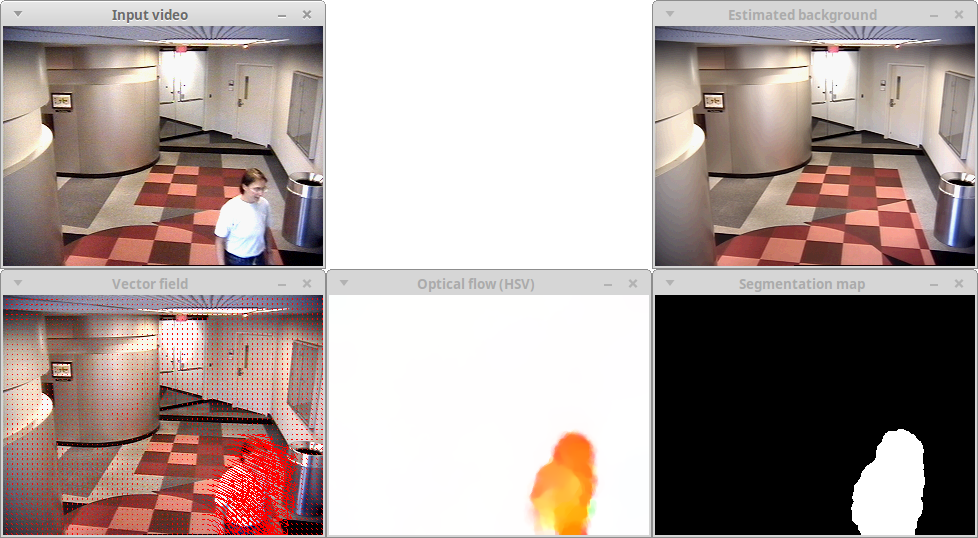
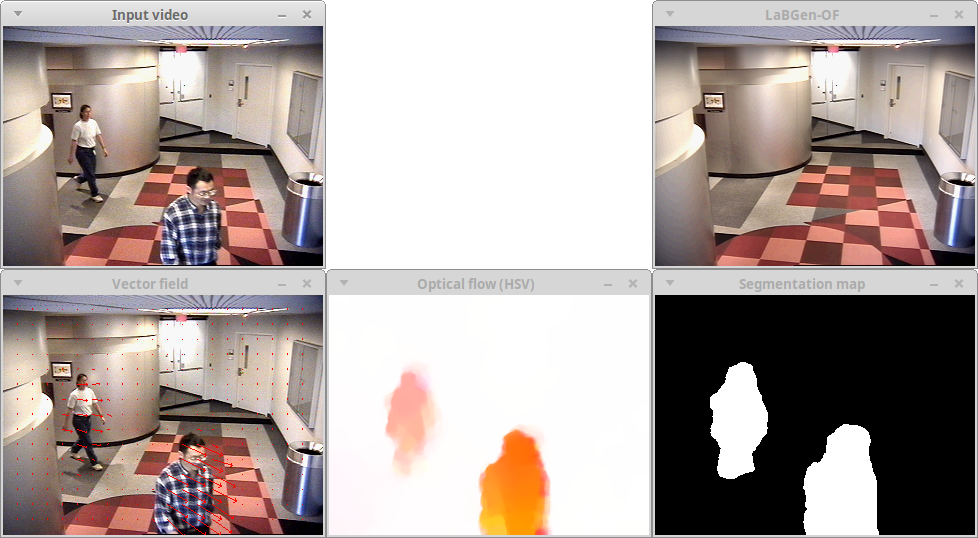
README updated, segmentation fault corrected when split vis is enabled, updated Travis CI to handle OpenCV 3.3

diff --git a/main/LaBGen-OF-cli.cpp b/main/LaBGen-OF-cli.cpp
@@ -120,49 +120,48 @@ int main(int argc, char** argv) {
   unique_ptr<GridWindow> window;
   unique_ptr<VideoWriter> record_stream;
 
-  if (
-    (args_h.get_visualization() && !args_h.get_split_vis()) ||
-     args_h.get_record()
-   ) {
+  if (args_h.get_visualization() || args_h.get_record()) {
     arrows_image     = unique_ptr<Mat>(new Mat(height, width, CV_8UC3));
     optical_flow_hsv = unique_ptr<Mat>(new Mat(height, width, CV_8UC3));
 
-    TextProperties::TextPropertiesPtr title_properties = nullptr;
+    if (!args_h.get_split_vis()) {
+      TextProperties::TextPropertiesPtr title_properties = nullptr;
 
-    if (args_h.get_record()) {
-      title_properties = make_shared<TextProperties>(
-        TextProperties::Font::FONT_DUPLEX,
-        0.8
-      );
-    }
-    else
-      title_properties = make_shared<TextProperties>();
+      if (args_h.get_record()) {
+        title_properties = make_shared<TextProperties>(
+          TextProperties::Font::FONT_DUPLEX,
+          0.8
+        );
+      }
+      else
+        title_properties = make_shared<TextProperties>();
 
-    window = unique_ptr<GridWindow>(
-      new GridWindow(
-        "LaBGen-OF",
-        (args_h.get_v_height() > 0) ? args_h.get_v_height() : height,
-        (args_h.get_v_width() > 0) ? args_h.get_v_width() : width,
-        2,
-        3,
-        title_properties
-      )
-    );
-
-    if (args_h.get_keep_ratio())
-      window->keep_ratio();
-
-    if (args_h.get_record()) {
-      const Mat& buffer = window->get_buffer();
-
-      record_stream = unique_ptr<VideoWriter>(
-        new VideoWriter(
-          args_h.get_record_path(),
-          CV_FOURCC('M','J','P','G'),
-          args_h.get_record_fps(),
-          Size(buffer.cols, buffer.rows)
+      window = unique_ptr<GridWindow>(
+        new GridWindow(
+          "LaBGen-OF",
+          (args_h.get_v_height() > 0) ? args_h.get_v_height() : height,
+          (args_h.get_v_width() > 0) ? args_h.get_v_width() : width,
+          2,
+          3,
+          title_properties
         )
       );
+
+      if (args_h.get_keep_ratio())
+        window->keep_ratio();
+
+      if (args_h.get_record()) {
+        const Mat& buffer = window->get_buffer();
+
+        record_stream = unique_ptr<VideoWriter>(
+          new VideoWriter(
+            args_h.get_record_path(),
+            CV_FOURCC('M','J','P','G'),
+            args_h.get_record_fps(),
+            Size(buffer.cols, buffer.rows)
+          )
+        );
+      }
     }
   }
 
@@ -191,9 +190,10 @@ int main(int argc, char** argv) {
   cout << endl << "Processing..." << endl;
   bool first_frame = true;
 
-  FramesVec::const_iterator begin = frames.begin();
-  FramesVec::const_iterator it    = begin + 1;
-  FramesVec::const_iterator end   = frames.end();
+  FramesVec::const_iterator begin   = frames.begin();
+  FramesVec::const_iterator it      = begin + 1;
+  FramesVec::const_iterator prev_it = begin;
+  FramesVec::const_iterator end     = frames.end();
 
   for (
     int32_t pass = 0, passes = (args_h.get_p_param() + 1) / 2;
@@ -211,7 +211,7 @@ int main(int argc, char** argv) {
       /* Visualization. */
       if (args_h.get_visualization() || args_h.get_record()) {
         OpticalFlow::get_arrows_image(
-          *it,
+          *prev_it,
           labgen_of.get_vector_field(),
           *arrows_image
         );
@@ -257,6 +257,7 @@ int main(int argc, char** argv) {
       }
 
       /* Move iterator. */
+      prev_it = it;
       it = (forward) ? ++it : --it;
 
       /* If iterator is at the end. */

diff --git a/src/optical_flow/OpticalFlow.cpp b/src/optical_flow/OpticalFlow.cpp
@@ -171,8 +171,8 @@ void OpticalFlow::get_arrows_image(
 
   float* optical_flow_buffer = reinterpret_cast<float*>(optical_flow.data);
 
-  for (int row = step_px - 1; row < height; row += step_px) {
-    for (int col = step_px - 1; col < width; col += step_px) {
+  for (int row = step_px - 1; row <= height - step_px; row += step_px) {
+    for (int col = step_px - 1; col <= width - step_px; col += step_px) {
       arrowedLine(
         arrows_image,
         Point(col, row),

diff --git a/include/labgen-of/optical_flow/OpticalFlow.hpp b/include/labgen-of/optical_flow/OpticalFlow.hpp
@@ -78,8 +78,8 @@ namespace ns_labgen_of {
         const cv::Mat& input_frame,
         const cv::Mat& optical_flow,
         cv::Mat& arrows_image,
-        size_t step_px = 5,
-        double visibility_factor = 5
+        size_t step_px = 15,
+        double visibility_factor = 3
       );
 
     protected:

diff --git a/README.md b/README.md
@@ -9,6 +9,10 @@ LaBGen-OF is a patch-based stationary background generation method introduced in
 
 ![Graphical Abstract](.readme/graphical-abstract.png)
 
+Here is a video showing some backgrounds estimated by LaBGen-OF (click on the image below to play it):
+
+[![Demonstration of LaBGen-OF](https://img.youtube.com/vi/6tzzY65sCzc/0.jpg)](https://www.youtube.com/watch?v=6tzzY65sCzc "Click to play")
+
 ## Compiling the program
 
 The program implementing the method has been developed in C++11 and is distributed under the [GPLv3](LICENSE) license. In order to compile it, you need a modern C++ compiler, a copy of the [Boost](http://www.boost.org) library, a copy of the [OpenCV 3](http://opencv.org) (at least 3.1) library **with contrib modules**, and the [CMake](https://cmake.org) build automation tool. On UNIX-like environments, the program can be compiled as follows, considering that your terminal is in the source code directory:
@@ -24,36 +28,18 @@ $ make
 Once the program has been compiled, the following command gives the complete list of available options:
 
 ```
-$ ./LaBGen-OF-cli -h
+$ ./LaBGen-OF-cli --help
 ```
 
-In this program, the syntax used to provide the path of the input video sequence is the same one used by the OpenCV library. Thus, for instance, one can generate a stationary background image for the IBMtest2 sequence of the [SBI dataset](http://sbmi2015.na.icar.cnr.it/SBIdataset.html) [[2](#references)] with *(A, S, N, P, T) = (DeepFlow, 119, 8, 3, 0.04)* as follows:
-
-```
-$ ./LaBGen-OF-cli -i path_to_IBMtest2/IBMtest2_%6d.png -o my_output_path -a deep_flow -s 119 -n 8 -p 3 -t 4
-```
-
-The following strings are accepted with the `-a` option: `deep_flow`, `sparse_to_dense` (Lucas-Kanade), `dis_flow`, `farneback`, `simple_flow`, `dual_tvl1`. One can directly use the default set of parameters with the `-d` option:
-
-```
-$ ./LaBGen-OF-cli -i path_to_IBMtest2/IBMtest2_%6d.png -o my_output_path -d
-```
-
-One can observe the processing performed by LaBGen-OF in graphical windows by adding the `-v` option:
+As an example, the IBMtest2 sequence of the [SBI dataset](http://sbmi2015.na.icar.cnr.it/SBIdataset.html) [[4](#references)] can be processed with the default set of parameters as follows:
 
 ```
 $ ./LaBGen-OF-cli -i path_to_IBMtest2/IBMtest2_%6d.png -o my_output_path -d -v
 ```
 
-With this last option, the processing will be slower as an estimation of the stationary background is generated after each frame in the corresponding window. Here is an example of the execution of the program with the `-v` option:
-
 ![Screenshot](.readme/screenshot.png)
 
-By default, all the items to observe are gathered in a unique window. If, for any reason, a graphical window per item is required, one can add the `-l` option along with `-v`:
-
-![Screenshot Split](.readme/screenshot-split.png)
-
-Finally, one can use the `-w` option to define (in ms) the time to wait between the processing of two frames when the visualization is enabled. This time is given to the `waitKey()` function of OpenCV. Consequently, the option `-w 0` means that you have to press any key to process the next frame. By default, the time is defined to 1 ms.
+A full documentation of the options of the program is [available on the wiki](https://github.com/benlaug/labgen-of/wiki/Arguments-of-the-program).
 
 ## Citation
 
